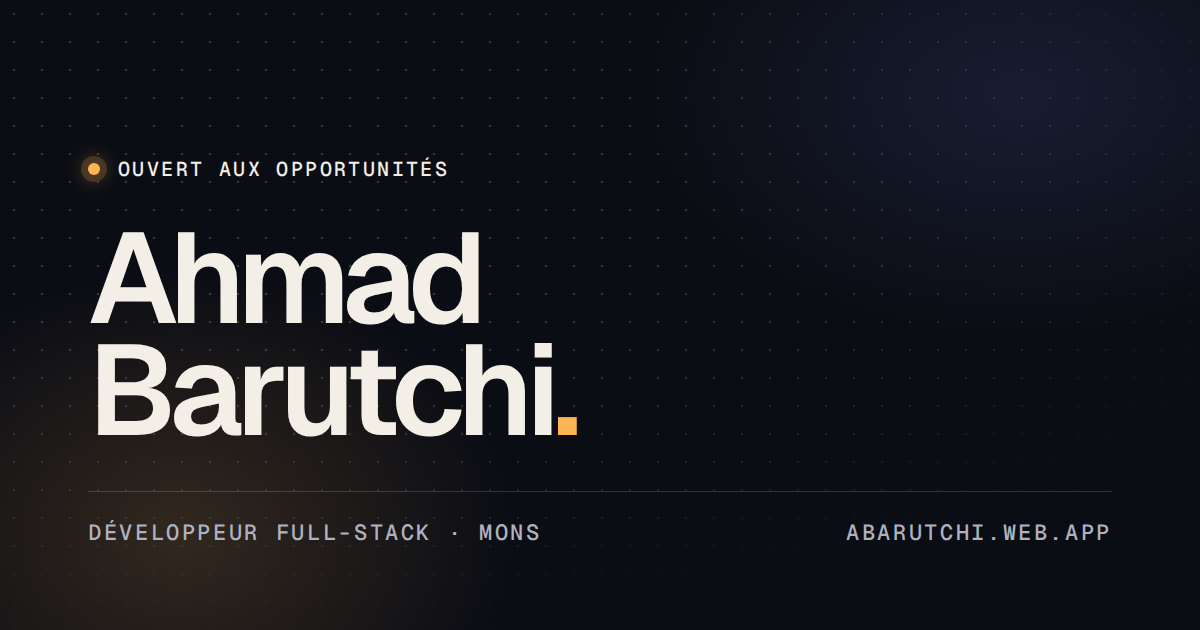
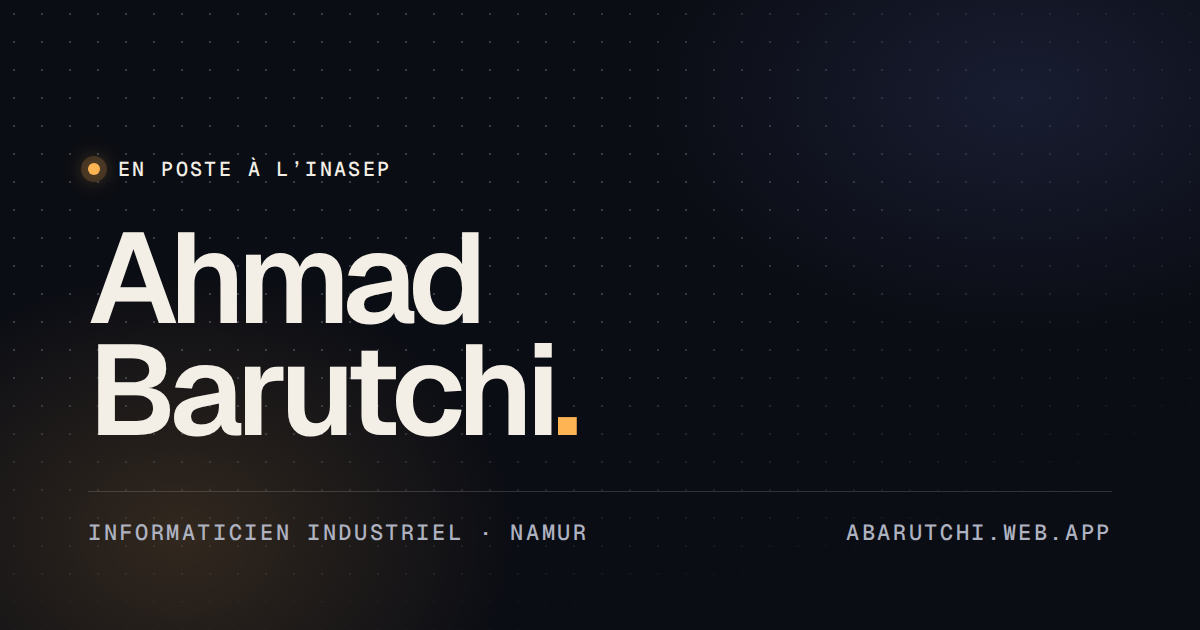
Move the base to Namur and add the INASEP role
Ahmad now lives in Namur and has worked since March 2026 as an
industrial IT engineer and project manager at INASEP.

- Profile, hero, about, SEO title and JSON-LD now say Namur and the new
  role; the status line reads "En poste à l'INASEP".
- New featured timeline entry for INASEP; BHC is no longer marked as
  the latest position.
- The radar tile is recentred on Namur with recomputed positions for
  Mons, Brussels, Charleroi, Liège and Ghent.
- Regenerate the Open Graph image with the new role and city.

Claude-Session: https://claude.ai/code/session_01Y2wnGfFLnpBPsPCk2PaB9W

Changed region(s): [[0.0617, 0.8143, 0.4933, 0.8746], [0.0925, 0.2413, 0.37, 0.3016]]

diff --git a/src/data/site.ts b/src/data/site.ts
@@ -8,9 +8,9 @@
 export const SITE = {
   url: 'https://abarutchi.web.app',
   name: 'Ahmad Barutchi',
-  title: 'Ahmad Barutchi — Développeur full-stack à Mons',
+  title: 'Ahmad Barutchi — Informaticien industriel et développeur full-stack à Namur',
   description:
-    'Développeur full-stack basé à Mons (Python, Odoo, Angular). Parcours, projets dont un robot secouriste IoT, et contact.',
+    'Informaticien industriel et chef de projets à l’INASEP, développeur full-stack (Python, Odoo, Angular) basé à Namur. Parcours, projets dont un robot secouriste IoT, et contact.',
   locale: 'fr_BE',
   lang: 'fr',
   repo: 'https://github.com/ahmad-barutchi/portfolio',
@@ -21,18 +21,18 @@ export const PROFILE = {
   name: 'Ahmad Barutchi',
   firstName: 'Ahmad',
   lastName: 'Barutchi',
-  role: 'Développeur full-stack',
+  role: 'Informaticien industriel · chef de projets',
   /** 'open' affiche « Ouvert aux opportunités » ; null masque la ligne de statut. */
-  availability: 'open' as 'open' | 'busy' | null,
+  availability: 'busy' as 'open' | 'busy' | null,
   availabilityLabel: {
     open: 'Ouvert aux opportunités',
-    busy: 'En poste',
+    busy: 'En poste à l’INASEP',
   },
-  city: 'Mons',
+  city: 'Namur',
   country: 'Belgique',
   countryCode: 'BE',
-  postalCode: '7000',
-  coords: '50.45° N · 3.95° E',
+  postalCode: '5000',
+  coords: '50.47° N · 4.87° E',
   timeZone: 'Europe/Brussels',
   email: 'ahmad.barutchi@gmail.com',
   phone: '0472 81 38 31',
@@ -72,15 +72,16 @@ export const SECTIONS = {
 
 export const HERO = {
   /** La partie en gras ; le mot entre astérisques passe en Instrument Serif italique. */
-  ledeStrong: 'Développeur *full-stack* basé à Mons.',
-  ledeRest: 'Python, Odoo et Angular, du capteur jusqu’au tableau de bord.',
+  ledeStrong: 'Informaticien *industriel* et chef de projets à Namur.',
+  ledeRest:
+    'Développeur full-stack : Python, Odoo et Angular, du capteur jusqu’au tableau de bord.',
   primaryCta: { label: 'Voir les projets', href: '#projets' },
   secondaryCta: { label: 'CV · PDF' },
 } as const;
 
 export const ABOUT = {
   /** HTML autorisé : <em> pour le mot en serif. */
-  lead: 'Je suis développeur <em>full-stack</em>, basé à Mons. J’ai passé un an chez BHC à construire des modules Odoo en Python et JavaScript, après deux stages web et un bachelier en Informatique et Systèmes à la HEH.',
+  lead: 'Depuis mars 2026, je suis informaticien <em>industriel</em> et chef de projets à l’INASEP, à Namur. Avant cela, j’ai passé un an chez BHC à construire des modules Odoo en Python et JavaScript, après deux stages web et un bachelier en Informatique et Systèmes à la HEH, à Mons.',
   paragraphs: [
     'Mon parcours a commencé ailleurs : des études d’ingénierie des équipements médicaux à Alep, deux ans de bénévolat au Croissant-Rouge, puis l’arrivée en Belgique. J’y ai appris le français de A1 à B2 en un an, et fait un détour par une école d’art à Gand avant de choisir le code.',
     'Mon travail de fin d’études était un robot secouriste qui remonte sa télémétrie vers un tableau de bord web et mobile. Depuis 2016, je donne aussi des cours particuliers d’informatique et de musique.',
@@ -88,7 +89,7 @@ export const ABOUT = {
   facts: [
     { label: 'Langues', value: 'FR C2 · EN C1 · AR C2' },
     { label: 'Permis', value: 'B, depuis 2014' },
-    { label: 'Base', value: 'Mons, Belgique' },
+    { label: 'Base', value: 'Namur, Belgique' },
     { label: 'Enseigne', value: 'Informatique et musique' },
   ],
   portraitAlt: 'Portrait d’Ahmad Barutchi, souriant, en chemise blanche',
@@ -110,6 +111,16 @@ export type Experience = {
 
 export const EXPERIENCES: readonly Experience[] = [
   {
+    year: '2026',
+    role: 'Informaticien industriel, chef de projets',
+    org: 'INASEP',
+    place: 'Namur, Belgique',
+    period: 'Depuis mars 2026',
+    description: 'Informatique industrielle et gestion de projets.',
+    featured: true,
+    badge: 'Poste actuel',
+  },
+  {
     year: '2023',
     role: 'Software Engineer',
     org: 'BHC sprl',
@@ -117,8 +128,6 @@ export const EXPERIENCES: readonly Experience[] = [
     period: 'Sept 2023 – Oct 2024',
     description: 'Développement Odoo en Python et JavaScript.',
     stack: ['Odoo', 'Python', 'JavaScript', 'PostgreSQL'],
-    featured: true,
-    badge: 'Dernier poste',
   },
   {
     year: '2022',
@@ -277,15 +286,15 @@ export const RADAR = {
 } as const;
 
 /**
- * Tuile radar « Mons. » : lieux où Ahmad a travaillé, étudié ou participé à des hackathons.
- * x, y en px depuis Mons (≈ 0,75 px/km, nord en haut) ; delay = angle / 360 × 4 s.
+ * Tuile radar « Namur. » : lieux où Ahmad a travaillé, étudié ou participé à des hackathons.
+ * x, y en px depuis Namur (≈ 0,85 px/km, nord en haut) ; delay = angle / 360 × 4 s.
  */
 export const RADAR_PLACES = [
-  { code: 'BXL', name: 'Bruxelles', x: 21, y: -33, delay: 0.36 },
-  { code: 'CRL', name: 'Charleroi', x: 26, y: 3, delay: 1.07, labelBelow: true },
-  { code: 'NAM', name: 'Namur', x: 49, y: -2, delay: 0.97 },
-  { code: 'LGE', name: 'Liège', x: 86, y: -15, delay: 0.89 },
-  { code: 'GND', name: 'Gand', x: -12, y: -50, delay: 3.85 },
+  { code: 'MONS', name: 'Mons', x: -55, y: 1, delay: 2.99, labelLeft: true },
+  { code: 'BXL', name: 'Bruxelles', x: -31, y: -36, delay: 3.55 },
+  { code: 'CRL', name: 'Charleroi', x: -26, y: 5, delay: 2.87, labelBelow: true },
+  { code: 'LGE', name: 'Liège', x: 42, y: -15, delay: 0.78 },
+  { code: 'GND', name: 'Gand', x: -69, y: -55, delay: 3.43 },
 ] as const;
 
 export type Hackathon = {
@@ -321,7 +330,7 @@ export const HACKATHONS: readonly Hackathon[] = [
 export type Skill = { id: string; label: string; links?: readonly string[] };
 
 export const SKILLS_PROFILE =
-  'Développeur full-stack (front-end, back-end), développement mobile (Android), applications web.';
+  'Informaticien industriel et développeur full-stack : front-end, back-end, mobile (Android) et applications web.';
 
 /** Groupes de la carte de stack. `links` : compétences liées qui s'allument au survol (symétrisées à l'usage). */
 export const SKILL_GROUPS: ReadonlyArray<{ id: string; label: string; items: readonly Skill[] }> = [
@@ -386,7 +395,7 @@ export const SKILL_GROUPS: ReadonlyArray<{ id: string; label: string; items: rea
 export const CONTACT = {
   /** Le mot entre astérisques passe en serif italique. */
   title: 'Travaillons *ensemble*.',
-  intro: 'Un poste, une mission ou une question sur un projet : écrivez-moi.',
+  intro: 'Un projet, une collaboration ou une question : écrivez-moi.',
   links: [
     { id: 'linkedin', label: 'LinkedIn', href: PROFILE.linkedin },
     { id: 'github', label: 'GitHub', href: PROFILE.github },

diff --git a/src/scripts/clock.ts b/src/scripts/clock.ts
@@ -1,5 +1,5 @@
 /**
- * Heure locale de Mons dans tout élément [data-clock] (« 14:32 CEST »).
+ * Heure locale (Europe/Brussels) dans tout élément [data-clock] (« 14:32 CEST »).
  * Chargé sur toutes les pages par le Footer ; les autres composants posent
  * seulement <span data-clock>--:--</span>. Rafraîchi toutes les 15 s et au
  * retour sur l'onglet. Fuseau : PROFILE.timeZone (src/data/site.ts), recopié

diff --git a/README.md b/README.md
@@ -1,6 +1,6 @@
 # Portfolio — Ahmad Barutchi
 
-Site personnel d'Ahmad Barutchi, développeur full-stack à Mons : [abarutchi.web.app](https://abarutchi.web.app).
+Site personnel d'Ahmad Barutchi, informaticien industriel et développeur full-stack à Namur : [abarutchi.web.app](https://abarutchi.web.app).
 
 Design « SIGNAL » : encre bleu-nuit, un seul accent ambre, un champ de points vivant dans le hero, typographie éditoriale. Thèmes sombre et clair, responsive, accessible, et très léger.
 
@@ -35,7 +35,7 @@ npm run dev       # http://localhost:4321
 
 Tout le texte du site est dans **`src/data/site.ts`** : profil, statut de disponibilité, expériences, formations, projets, hackathons, compétences, contact. Le contenu de l'étude de cas est dans `src/data/case-robot.ts`.
 
-- Masquer la ligne « Ouvert aux opportunités » : `PROFILE.availability = null`.
+- Ligne de statut du hero et du contact : `PROFILE.availability` vaut `'busy'` (« En poste à l’INASEP »), `'open'` (« Ouvert aux opportunités ») ou `null` (masquée).
 - Héberger le CV : déposer `public/cv-ahmad-barutchi.pdf` puis mettre `PROFILE.cv = '/cv-ahmad-barutchi.pdf'`.
 
 ## Captures de l'étude de cas

diff --git a/HANDOVER.md b/HANDOVER.md
@@ -6,6 +6,7 @@
 > la spécification composant par composant, **tout le contenu du site actuel** (corrigé), les budgets de
 > performance, la structure cible du repo, le déploiement Firebase et un plan de travail par phases.
 > L'application Angular existante doit être **supprimée** : tout ce qu'il faut en garder est ici.
+> **Mise à jour du contenu (2026-10-03)** : Ahmad vit désormais à **Namur** et travaille depuis **mars 2026** comme **informaticien industriel, chef de projets à l'INASEP** (Namur). Le site en tient compte (`src/data/site.ts` fait foi) ; les mentions de Mons comme base dans ce document et dans la maquette sont dépassées.
 > **Statut (2026-10-03)** : le site décrit ici est construit sur la branche `claude/portfolio-redesign-modern-5rzbqf` (voir README.md). Reste à fournir : les captures du TFE (`npm run fetch:images`) et le secret de déploiement Firebase.
 > **Maquette de référence** (hero + bento, sombre / clair / mobile, interactive) : https://claude.ai/artifact/Vvs6kQE2NkrDLKixhWypNH
 > Elle est privée : Ahmad doit la partager (menu Share) pour qu'un autre compte puisse l'ouvrir.
